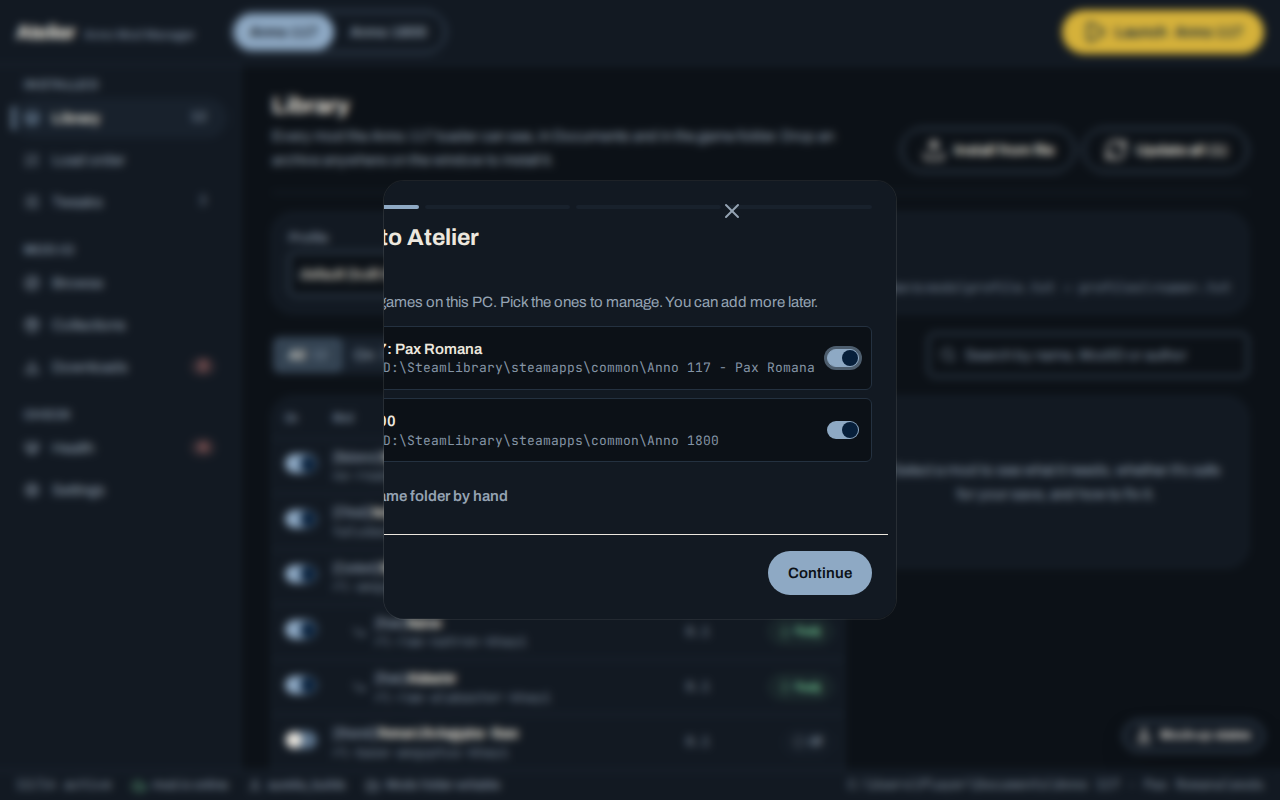
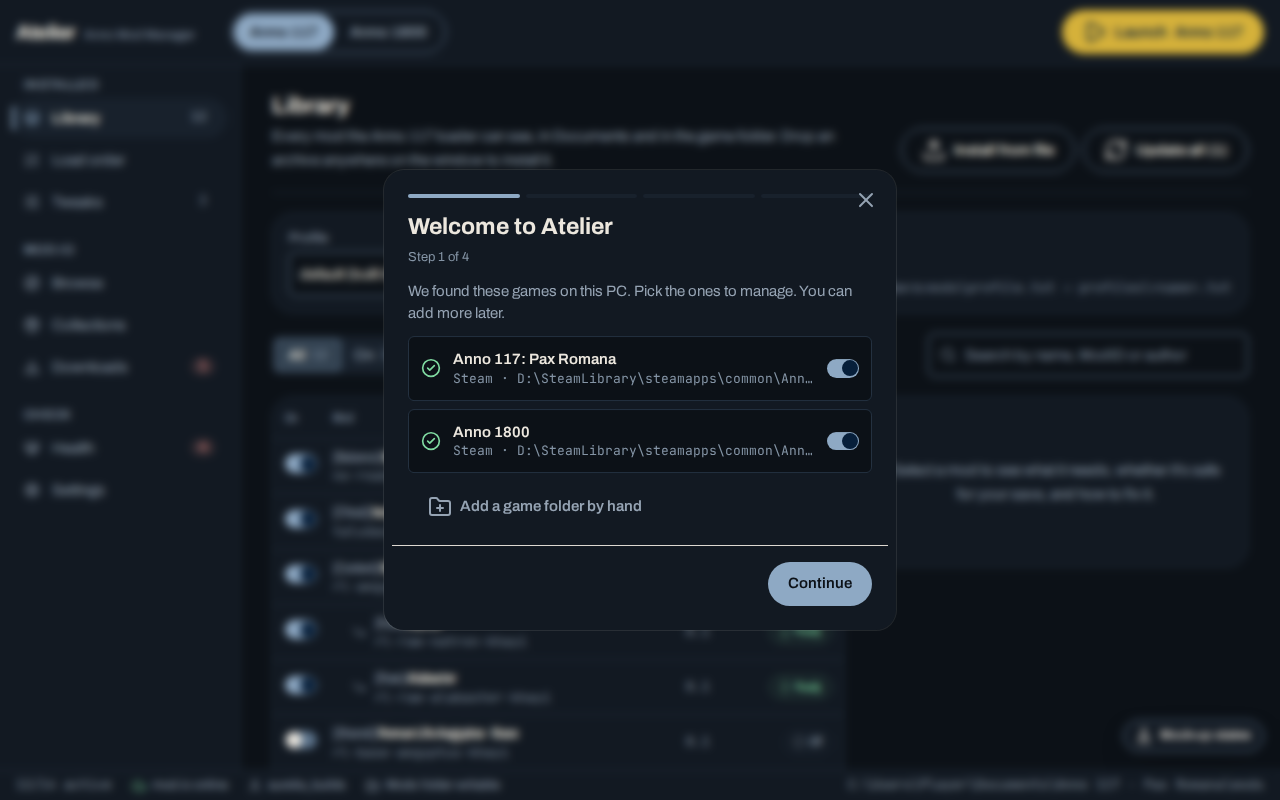
Fix the first-run wizard scrolling sideways on long game paths
The dialog is a grid, so the step body kept its min-content width and
the truncated install path widened and scrolled the dialog.

Changed region(s): [[0.2812, 0.2188, 0.6875, 0.6562], [0.5938, 0.6875, 0.6875, 0.8125], [0.3125, 0.75, 0.3438, 0.8125]]

diff --git a/src/features/onboarding/first-run-wizard.tsx b/src/features/onboarding/first-run-wizard.tsx
@@ -192,7 +192,8 @@ export function FirstRunWizard() {
             Step {stepIndex + 1} of {STEP_TITLES.length}
           </DialogDescription>
         </DialogHeader>
-        <div className="flex flex-col gap-3">{steps[stepIndex]}</div>
+        {/* min-w-0: a grid child would otherwise widen to the unwrapped path and scroll the dialog. */}
+        <div className="flex min-w-0 flex-col gap-3">{steps[stepIndex]}</div>
         <DialogFooter className="flex-row justify-end bg-transparent">
           {stepIndex > 0 && (
             <Button
